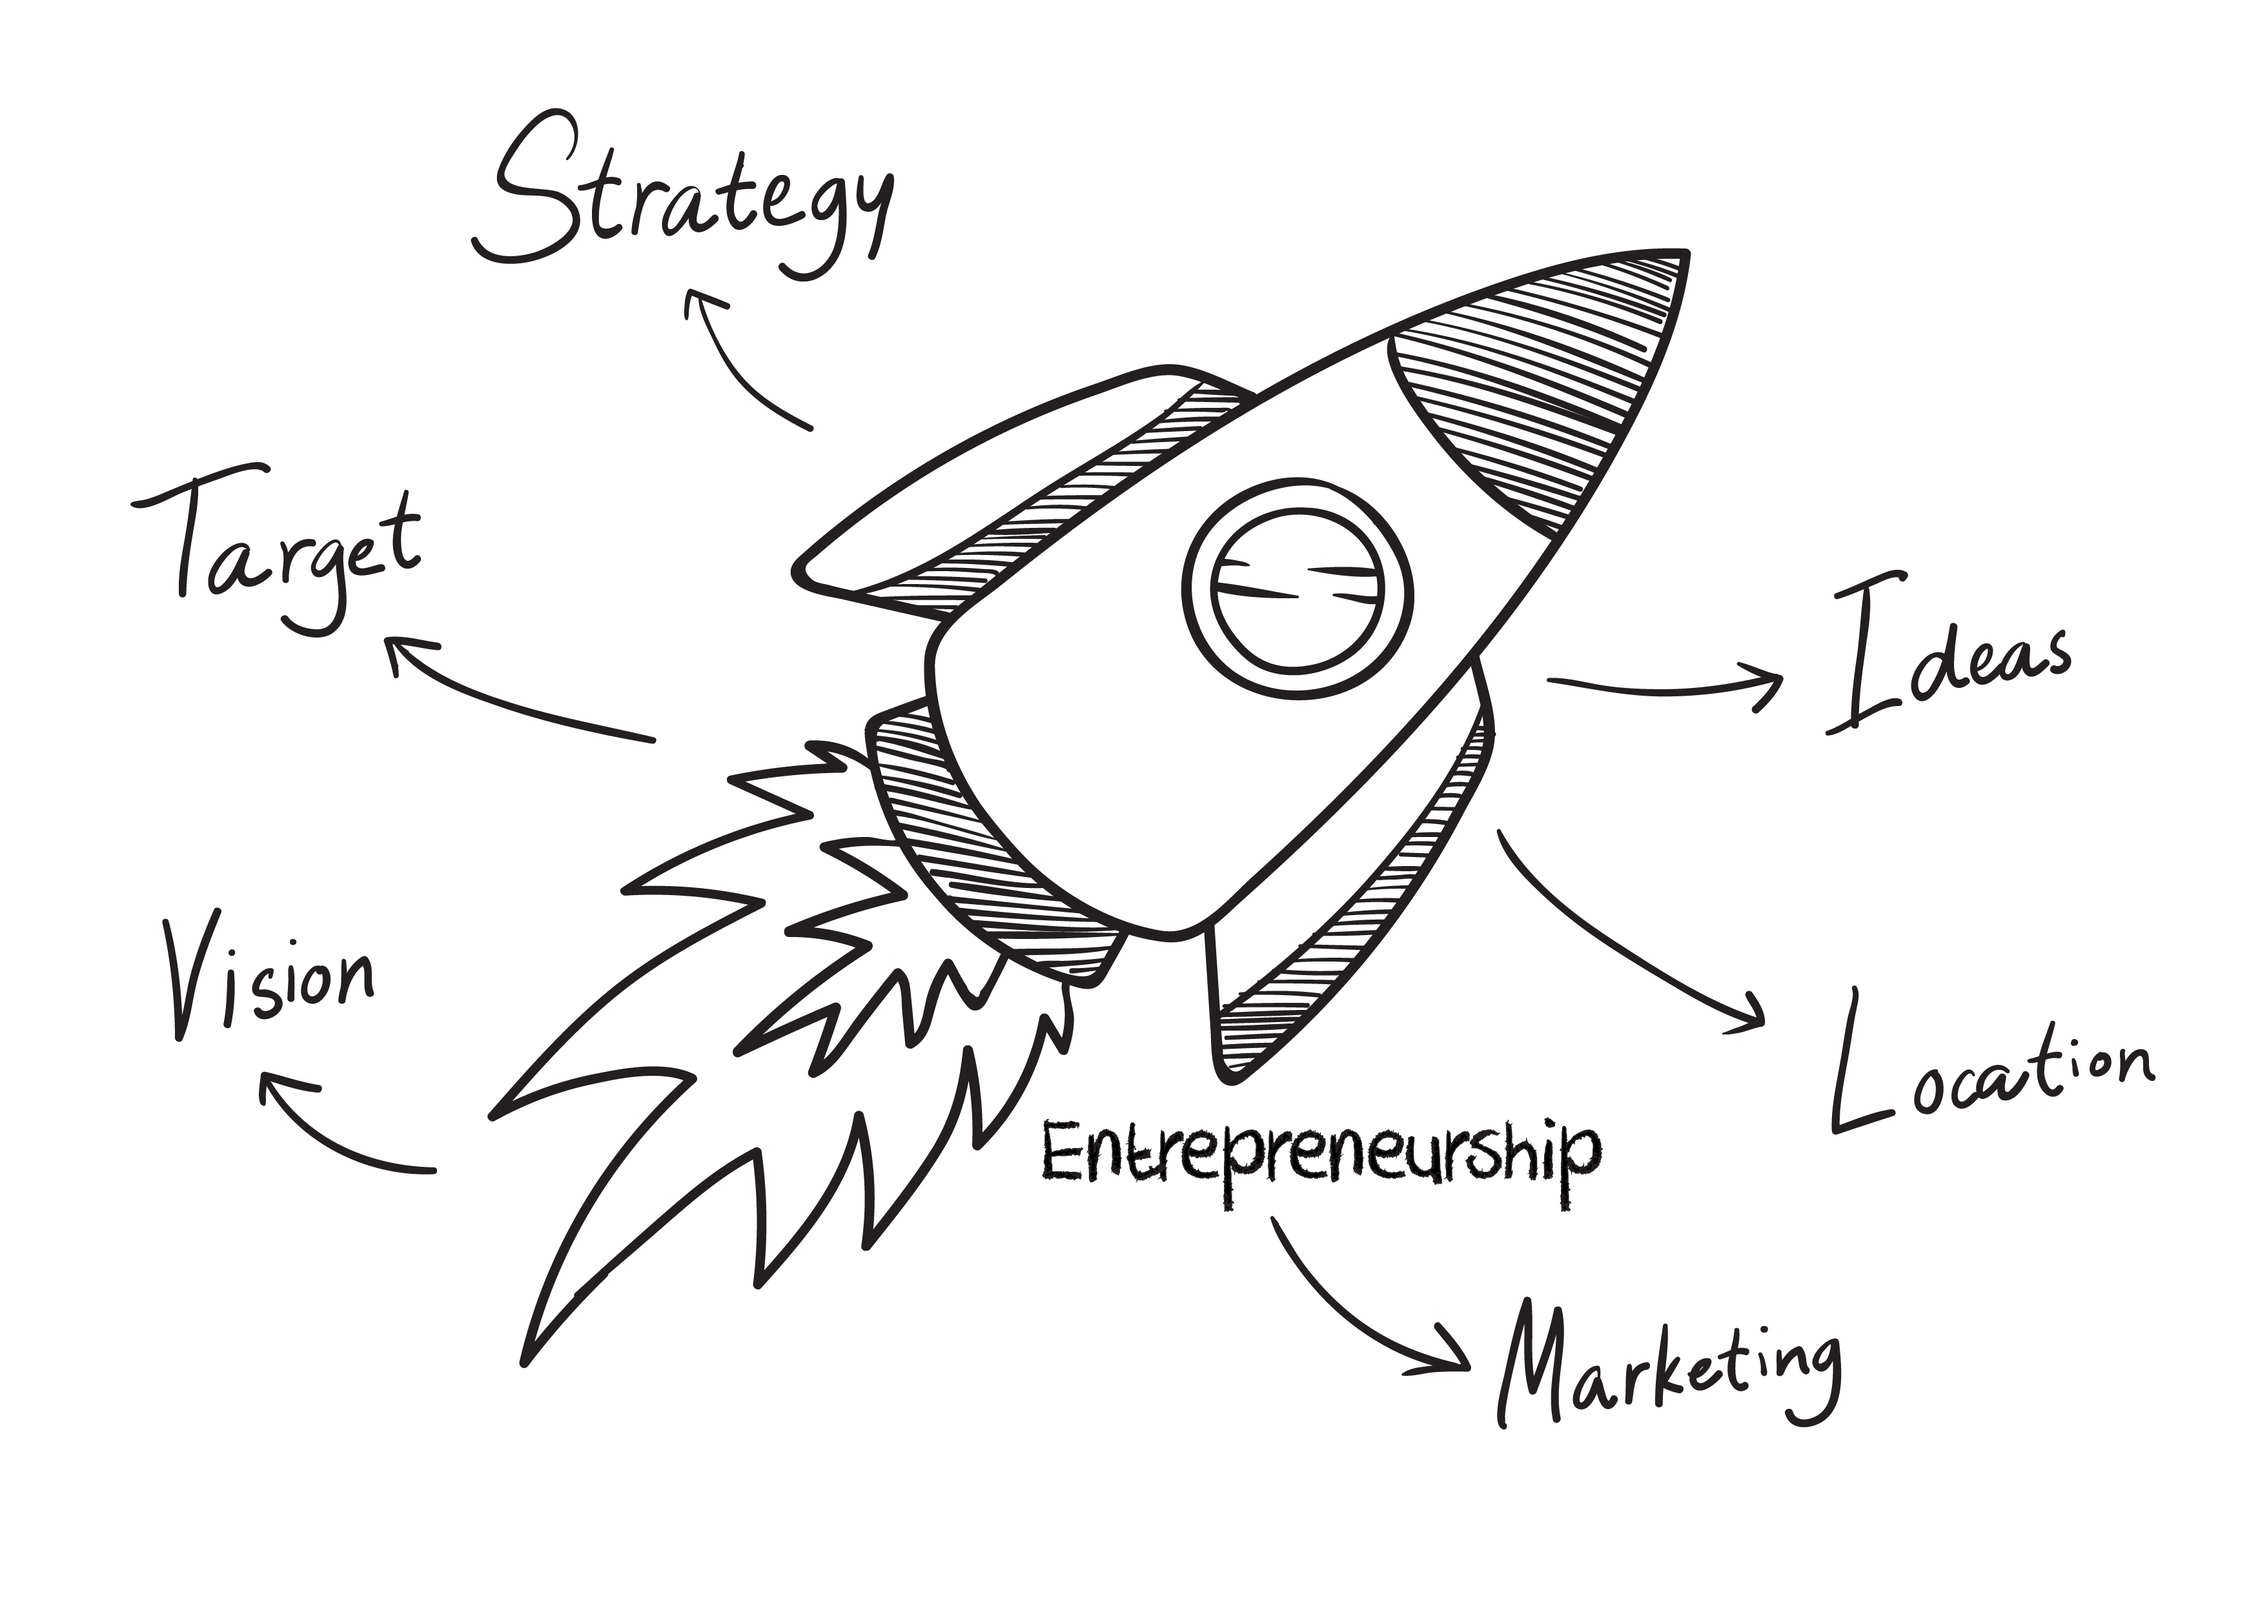
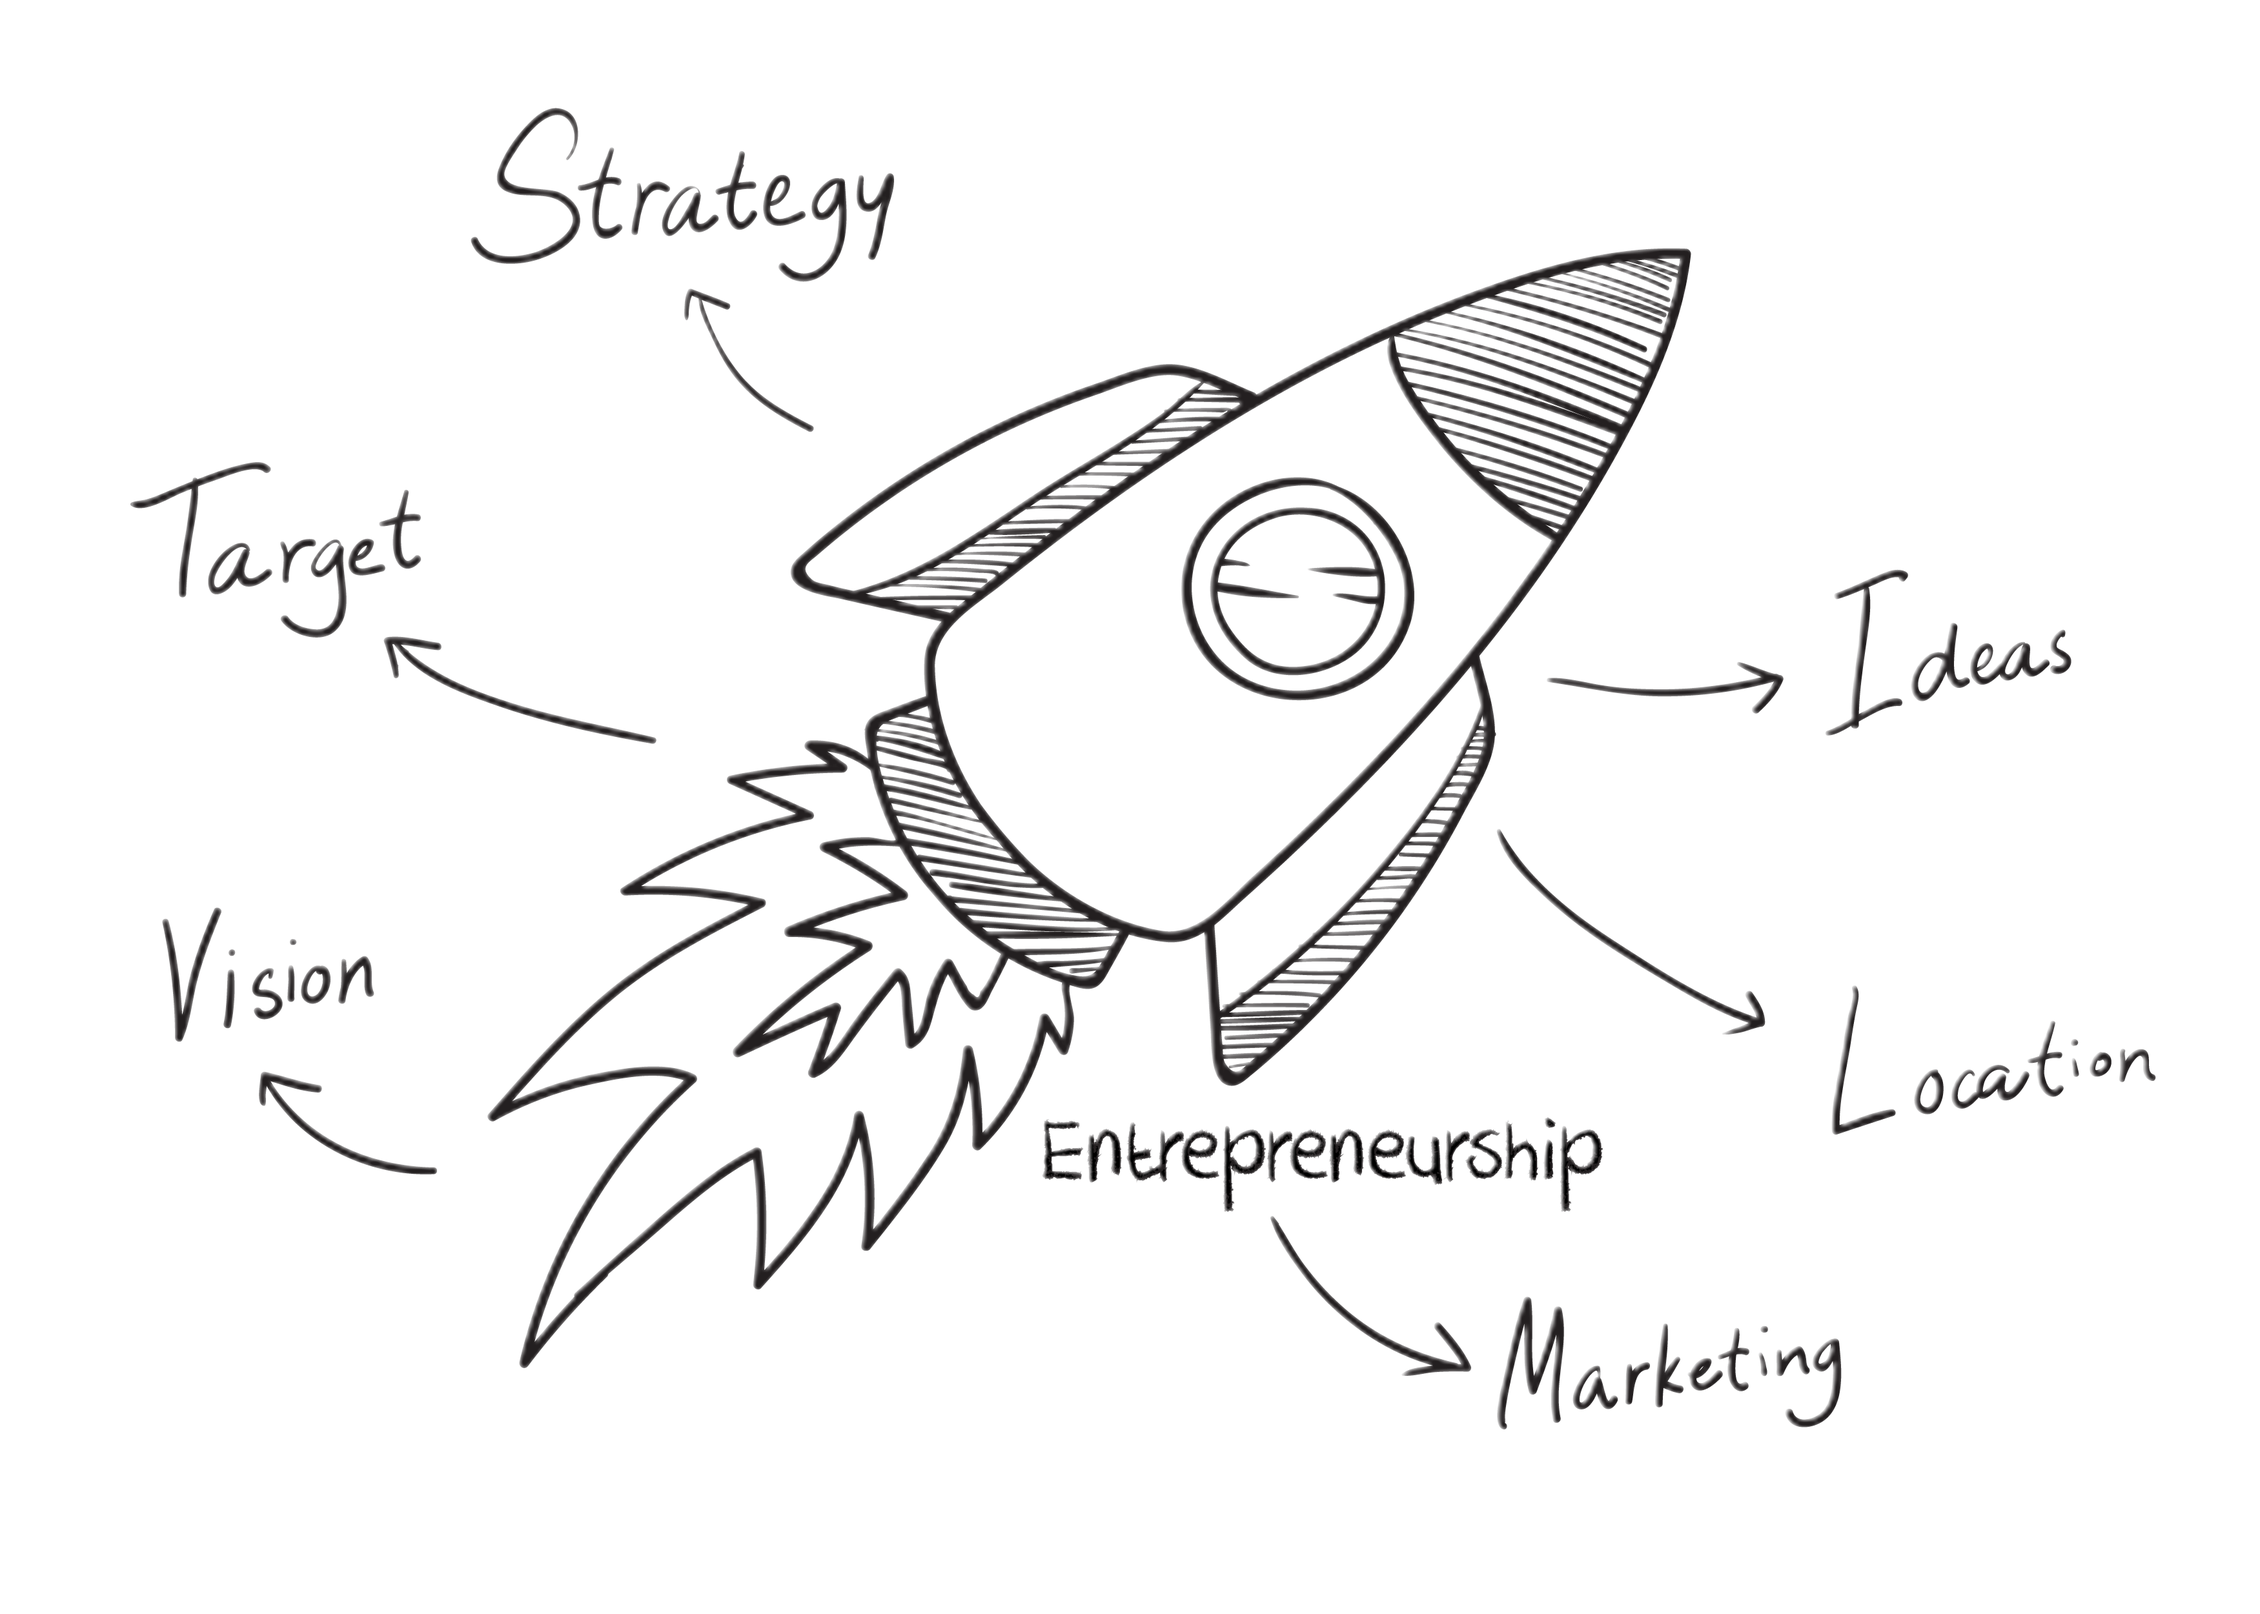
dark mode extended to images

diff --git a/static/index/assets/js/main.js b/static/index/assets/js/main.js
@@ -296,6 +296,9 @@ $('.slider').slick({
 
 // Dark Mode
 let darkMode = localStorage.getItem('darkMode'); 
+let edcImg = document.querySelector("#edc-img");
+let successImg = document.querySelector("#success-img");
+
 
 const darkModeToggle = document.querySelector('#darkToggle');
 
@@ -303,6 +306,8 @@ const enableDarkMode = () => {
   document.body.classList.add('darkmode');
   darkModeToggle.classList.remove('bi-moon-fill');
   darkModeToggle.classList.add('bi-sun-fill');
+  edcImg.setAttribute("src", "static/index/img/rocket edc-01_grey.png");
+  successImg.setAttribute("src", "static/index/img/SuccessBlock_grey.png");
   localStorage.setItem('darkMode', 'enabled');
 }
 
@@ -310,11 +315,16 @@ const disableDarkMode = () => {
   document.body.classList.remove('darkmode');
   darkModeToggle.classList.remove('bi-sun-fill');
   darkModeToggle.classList.add('bi-moon-fill');
+  edcImg.setAttribute("src", "static/index/img/rocket edc-01.png");
+  successImg.setAttribute("src", "static/index/img/SuccessBlock.png");
   localStorage.setItem('darkMode', null);
 }
  
 if (darkMode === 'enabled') {
   enableDarkMode();
+}
+else{
+  disableDarkMode();
 }
 
 darkModeToggle.addEventListener('click', () => {

diff --git a/dashboard/templates/index.html b/dashboard/templates/index.html
@@ -24,8 +24,9 @@
         data-aos-delay="200"
       >
         <img
-          src="{% static 'index/img/rocket edc-01.png'%}"
           class="img-fluid animated"
+          id="edc-img"
+          src=""
           alt=""
         />
       </div>
@@ -62,9 +63,9 @@
         <div class="about-img">
           <img
             data-aos="fade-up"
-            src="{% static 'index/img/SuccessBlock.jpg'%}" 
             style="height: auto; max-width: 280px"
-            class=""
+            id="success-img"
+            src=""
             alt=""/>
         </div>
         <div class="about-content">
